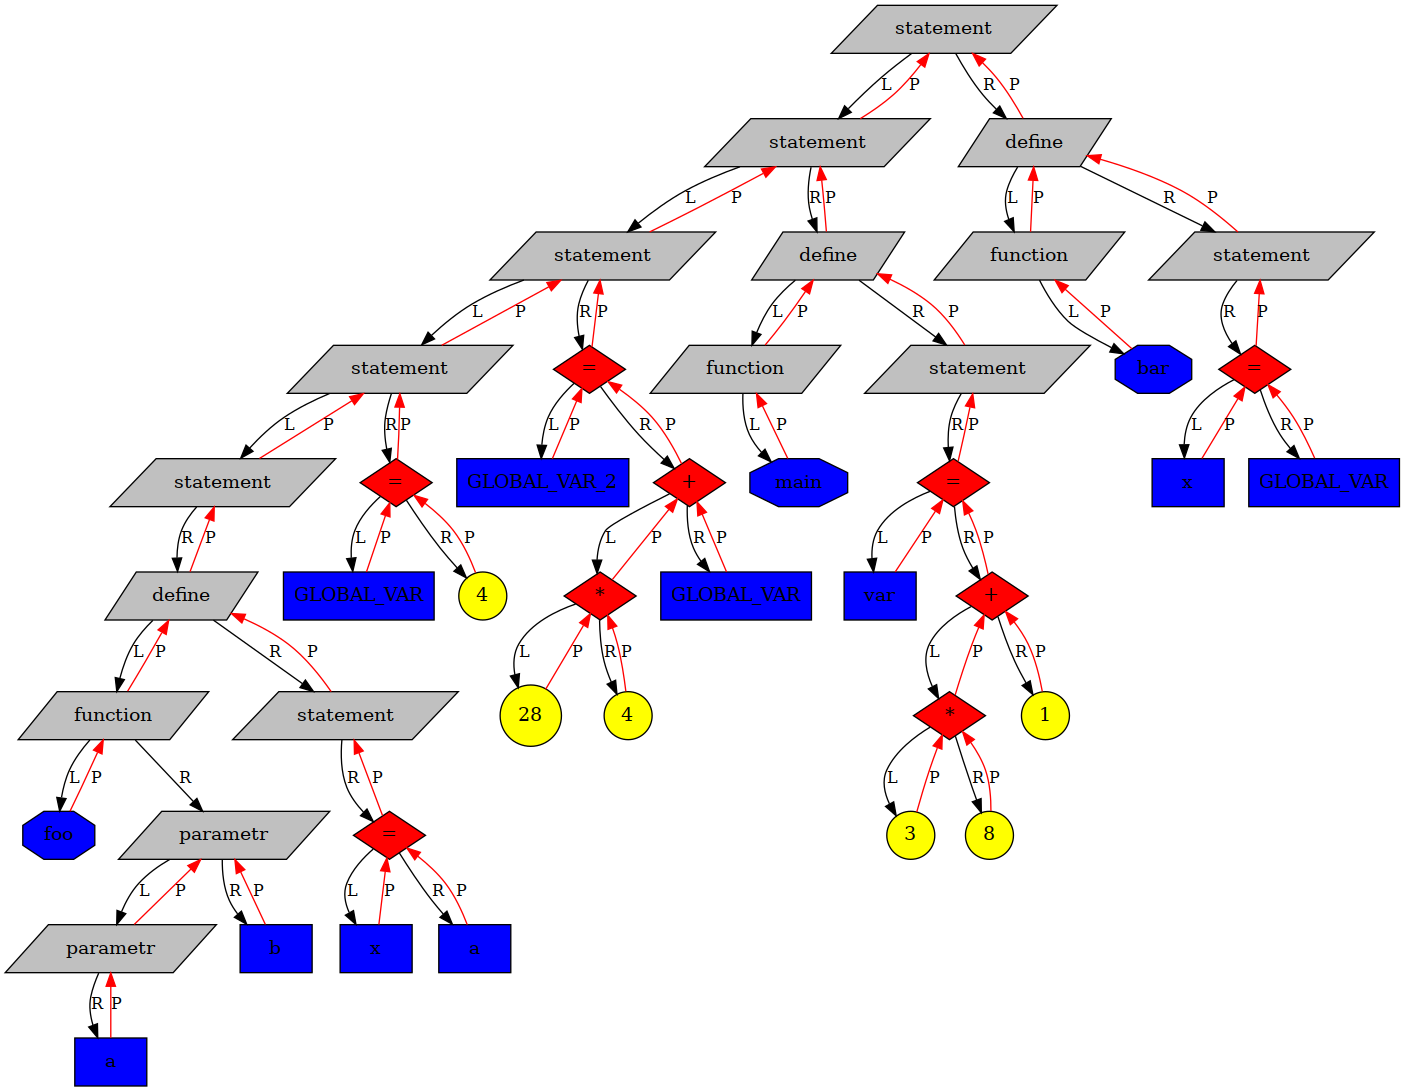
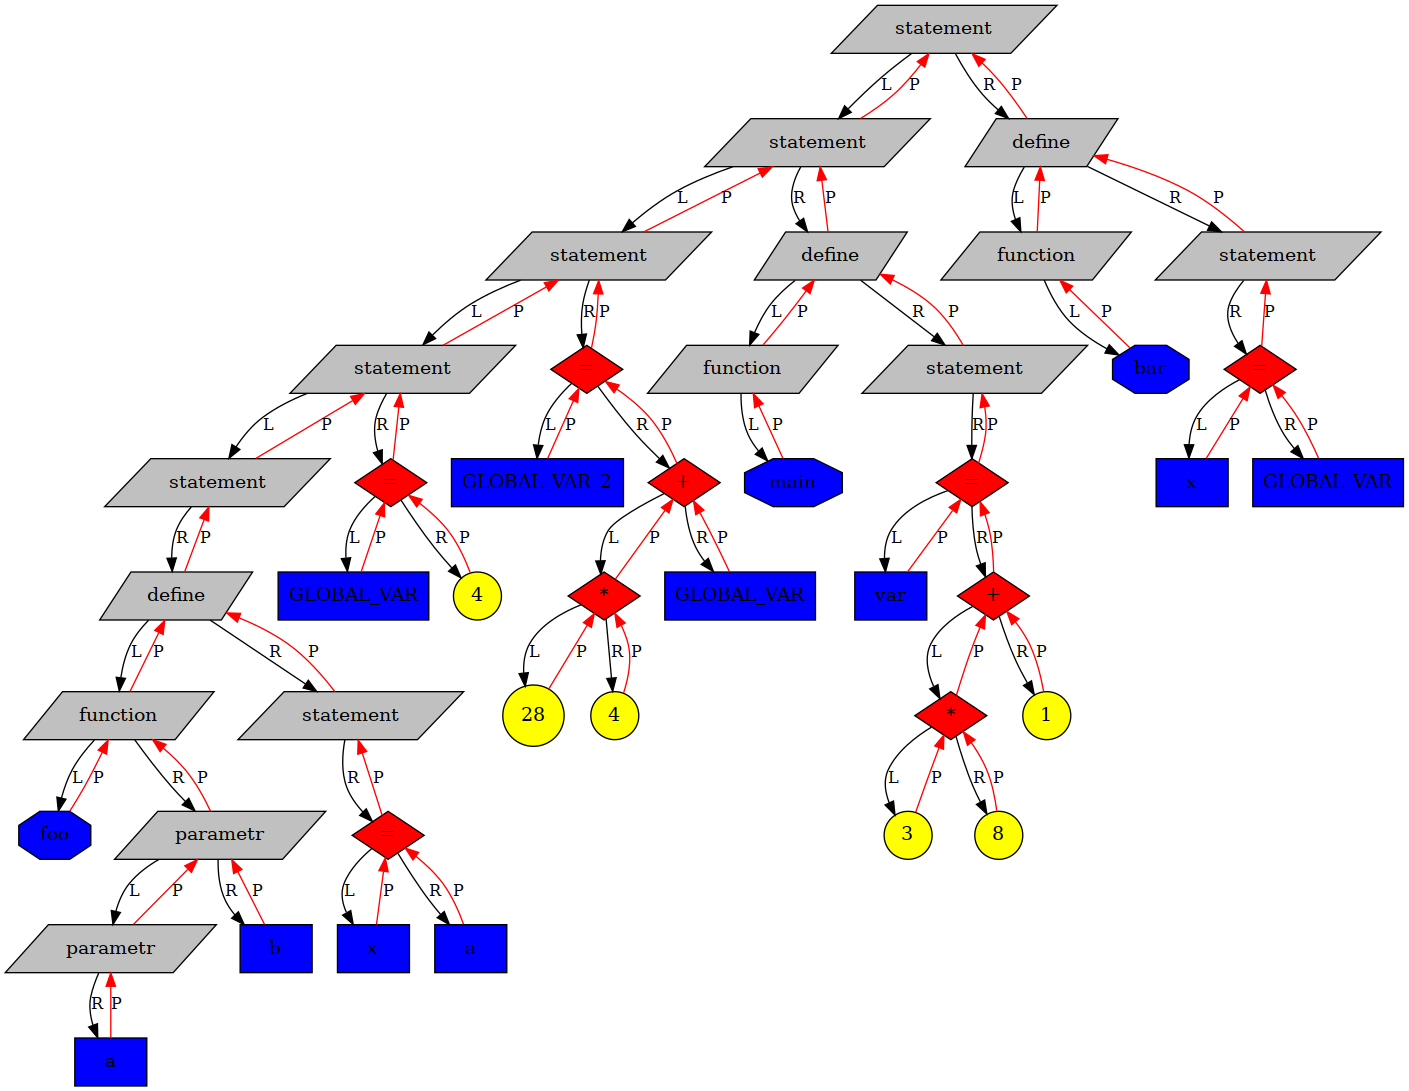
Update GetPar in parser

diff --git a/Parser.cpp b/Parser.cpp
@@ -153,6 +153,8 @@ static Node_t* GetF(Parser *parser)
     }
     parser->curToken++;
     node3->rightChild = GetPar(parser);
+    IS_PARSER_ERROR();
+    if (node3->rightChild != nullptr) {node3->rightChild->parent = node3; }
     Require(parser, RB);
 
     if (parser->tokens[parser->curToken].keyword == LSB)
@@ -185,16 +187,14 @@ static Node_t* GetPar(Parser *parser)
     while (parser->tokens[parser->curToken].keyword != RB)
     {
         Node_t *node1 = (Node_t*)calloc(1, sizeof(Node_t));
-        TreeInsert(parser->tree, node1, RIGHT_CHILD, VARIABLE, NO_VALUE, parser->tokens[parser->curToken].id);
+        node1->rightChild = GetE(parser);
+        IS_PARSER_ERROR();
+        node1->rightChild->parent = node1;
         node1->nodeType = PARAMETR;
         node1->value = NO_VALUE;
         node1->str = (char*)calloc(STR_MAX_SIZE, sizeof(char));
         strcpy(node1->str, (char*)"parametr");
-        if (parser->tokens[parser->curToken + 1].keyword == COMMA)
-        {
-            parser->curToken = parser->curToken + 2;
-        }
-        else
+        if (parser->tokens[parser->curToken].keyword == COMMA)
         {
             parser->curToken++;
         }
